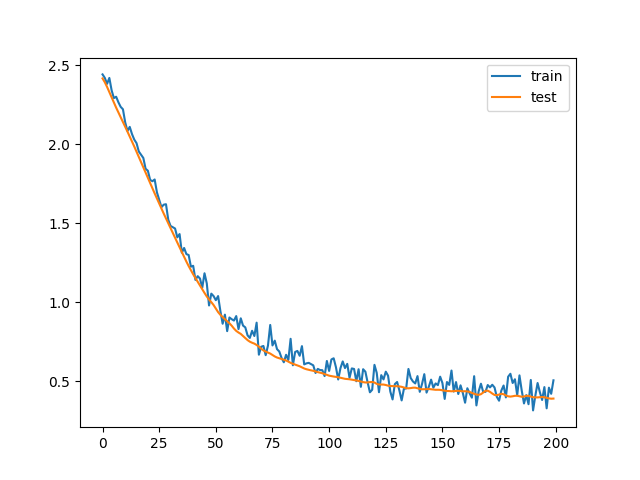
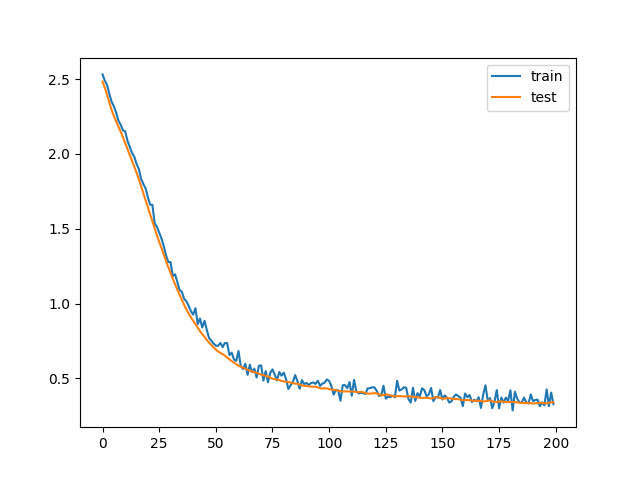
updated core: added possibility to use DenseLayer in __init__ of NeuralNetwork class

diff --git a/network/core.py b/network/core.py
@@ -1,15 +1,17 @@
 import numpy as np
 from network.activations import *
 
-
-dict_activations = {'tanh': tanh, 'sigmoid': sigmoid, 'relu': relu, 'softmax': softmax}
-dict_derivatives = {'tanh': derivative_tanh, 'sigmoid': derivative_sigmoid,
+DICT_ACTIVATIONS = {'tanh': tanh, 'sigmoid': sigmoid, 'relu': relu, 'softmax': softmax}
+DICT_DERIVATIVES = {'tanh': derivative_tanh, 'sigmoid': derivative_sigmoid,
                     'relu': derivative_relu, 'softmax': derivative_softmax}
 
 
 class DenseLayer(object):
 
-    def __init__(self, layer_size, prev_layer_size, activation='softmax'):
+    def __init__(self, layer_size, prev_layer_size, activation=None):
+        """
+        initialization of object DenseLayer
+        """
         self.layer_size = layer_size
         self.prev_layer_size = prev_layer_size
         self.weights = np.random.uniform(low=-np.sqrt(6 / (self.layer_size + self.prev_layer_size)),
@@ -17,7 +19,7 @@ class DenseLayer(object):
                                          size=(self.layer_size, self.prev_layer_size))
         self.bias = np.zeros((self.layer_size, 1))
         self.history = (0, 0)
-        self.activation = dict_activations.get(activation, None)
+        self.activation = DICT_ACTIVATIONS.get(activation, None)
 
     def update_weights_and_history(self, gradW, gradb, learning_rate, beta):
         vdw = beta * self.history[0] - learning_rate * gradW
@@ -33,13 +35,17 @@ class DenseLayer(object):
 
 
 class NeuralNetwork(object):
-    def __init__(self, dense_layer_count=2, neural_counts=(128, 11), activations=('relu', 'softmax')):
-        assert dense_layer_count == len(neural_counts)
-        assert dense_layer_count == len(activations)
+    def __init__(self, *your_layers, input_shape=784, dense_layer_count=0,
+                 neural_counts=None, activations=None):
+        if dense_layer_count != 0:
+            assert dense_layer_count == len(neural_counts)
+            assert dense_layer_count == len(activations)
         self.history_outputs = []
         for i in range(dense_layer_count):
             vars(self)[f'layer_{i}'] = DenseLayer(neural_counts[i],
-                                                    784 if i == 0 else neural_counts[i-1], activations[i])
+                                                  input_shape if i == 0 else neural_counts[i - 1], activations[i])
+        for i in range(dense_layer_count, dense_layer_count + len(your_layers)):
+            vars(self)[f'layer_{i}'] = your_layers[i - dense_layer_count]
 
     def __call__(self, inputs):
         self.history_outputs = [inputs]
@@ -58,14 +64,19 @@ class NeuralNetwork(object):
             if i == 0:
                 dZ = y_pred - y_true
             else:
-                weights = getattr(self, layers[i-1]).weights
-                activation = getattr(self, layer).activation.__name__
-                dZ = (dZ @ weights) * dict_derivatives[activation](self.history_outputs[-i])
+                weights = getattr(self, layers[i - 1]).weights
+                layer_activation = getattr(self, layer).activation
+                activation = layer_activation.__name__ if layer_activation is not None else None
+                derivate_act = DICT_DERIVATIVES.get(activation, None)
+                if derivate_act is not None:
+                    derivative_values = derivate_act(self.history_outputs[-i])
+                else:
+                    derivative_values = np.ones(self.history_outputs[-i].shape)
+                dZ = (dZ @ weights) * derivative_values
             db = np.expand_dims((1 / batch_size) * dZ.sum(axis=0), axis=-1)
-            dW = (1 / batch_size) * (np.swapaxes(dZ, 0, 1) @ self.history_outputs[-(i+1)])
+            dW = (1 / batch_size) * (np.swapaxes(dZ, 0, 1) @ self.history_outputs[-(i + 1)])
             getattr(self, layers[i]).update_weights_and_history(dW, db, learning_rate, beta)
 
 
 def categorical_cross_entropy(y_true, y_pred):
     return (-1 / y_true.shape[0]) * np.sum(y_true * np.log(y_pred + 1e-5))
-

diff --git a/main.py b/main.py
@@ -1,42 +1,52 @@
 import numpy as np
 from matplotlib import pyplot as plt
 
-from network.core import categorical_cross_entropy, NeuralNetwork
+from network.core import categorical_cross_entropy, NeuralNetwork, DenseLayer
 from network.load import load
+
+
+def train_model(model, data, labels, epochs=200, batch_size=32, val=None):
+    train_loss = []
+    if val is not None:
+        valid_loss = []
+    ind = np.arange(data.shape[0])
+    for epoch in range(epochs):
+        np.random.shuffle(ind)
+        data = data[ind]
+        labels = labels[ind]
+        print(f'epoch {epoch + 1}')
+        rand_int = np.random.randint(0, X_train.shape[0] - batch_size + 1)
+        pred = model(X_train[rand_int:rand_int + batch_size])
+        loss = categorical_cross_entropy(y_train[rand_int:rand_int + batch_size], pred)
+        network.back_propagation(y_train[rand_int:rand_int + batch_size], pred, batch_size)
+        if val is not None:
+            val_pred = model(val[0])
+            val_loss = categorical_cross_entropy(val[1], val_pred)
+            valid_loss.append(val_loss)
+            print(f'validation loss = {val_loss}', end=', ')
+        print(f'loss = {loss}')
+        train_loss.append(loss)
+    return train_loss, valid_loss if val is not None else train_loss
+
 
 X_train, y_train, X_val, y_val = load()
 
 
 epochs = 200
-batch_size = 256
+batch_size = 512
+
+neural_counts = [512, 256, 128, 256]
+activations = ['relu'] * 4
+#h_1 = DenseLayer(256, 784, 'relu')
+#h_2 = DenseLayer(128, 256, 'relu')
+pre_end = DenseLayer(64, neural_counts[-1], 'relu')
+end_network = DenseLayer(11, 64, 'softmax')
+network = NeuralNetwork(pre_end, end_network, input_shape=X_train.shape[1],
+                        dense_layer_count=4, neural_counts=neural_counts, activations=activations)
+
+train_errors, valid_errors = train_model(network, X_train, y_train, val=(X_val, y_val), batch_size=batch_size)
 
 
-neural_counts = [256, 128, 11]
-activations = ['relu'] * 2 + ['softmax']
-network = NeuralNetwork(dense_layer_count=3, neural_counts=neural_counts, activations=activations)
-train_loss = []
-valid_loss = []
-ind = np.arange(X_train.shape[0])
-for epoch in range(epochs):
-    np.random.shuffle(ind)
-    X_train = X_train[ind]
-    y_train = y_train[ind]
-    print(f'epoch {epoch + 1}')
-    rand_int = np.random.randint(0, X_train.shape[0])
-    #for i in range(0, X_train.shape[0], batch_size):
-    pred = network(X_train[rand_int:rand_int+batch_size])
-    loss = categorical_cross_entropy(y_train[rand_int:rand_int+batch_size], pred)
-    network.back_propagation(y_train[rand_int:rand_int+batch_size], pred, batch_size)
-    #digits_train = np.argmax(pred, axis=1)
-    #digits_real = np.argmax(y_train[rand_int:rand_int+batch_size], axis=1)
-        #print('count of correct predictions = ', round(100 * np.sum(digits_real == digits_train) / batch_size, 3), ' %')
-    val_pred = network(X_val)
-    val_loss = categorical_cross_entropy(y_val, val_pred)
-    print(f'loss = {loss}, val_loss = {val_loss}')
-    train_loss.append(loss)
-    valid_loss.append(val_loss)
-
-plt.plot(train_loss, label='train')
-plt.plot(valid_loss, label='test')
+plt.plot(train_errors, label='train')
+plt.plot(valid_errors, label='test')
 plt.legend()
-plt.savefig('graph.png')

diff --git a/README.md b/README.md
@@ -21,8 +21,13 @@
 
  а) Входные данные - развёрнутая картинка (т.е. на вход предп. не массив картинки 28x28, а вектор длиноой 784)
 
- б) Скрытый слой на 128 нейронов
-
- в) Финальный слой на 11 нейронов
+ б) Переменное количество слоёв, есть параметр dense_layer_counts, отвечающий за количество слоёв, если мы всё ещё хотим
+классифицировать изображения цифр, то в аргументе neural_counts последнее значение - количество классов (11)
 
 2) Инициализация весов в слоях - равномерное распределение (попытка закоса под glorot-uniform)
+
+3) Есть 2 способа создания сети (есть ещё третий, но это просто комбинация двух способов): 
+    
+    а) Используя ключевые аргументы (кол-во слоёв,кол-во нейронов в этих слоях, функции активации)
+    
+    б) Используя базовый реализованный клас DenseLayer, а затем записывать их в конструктор
